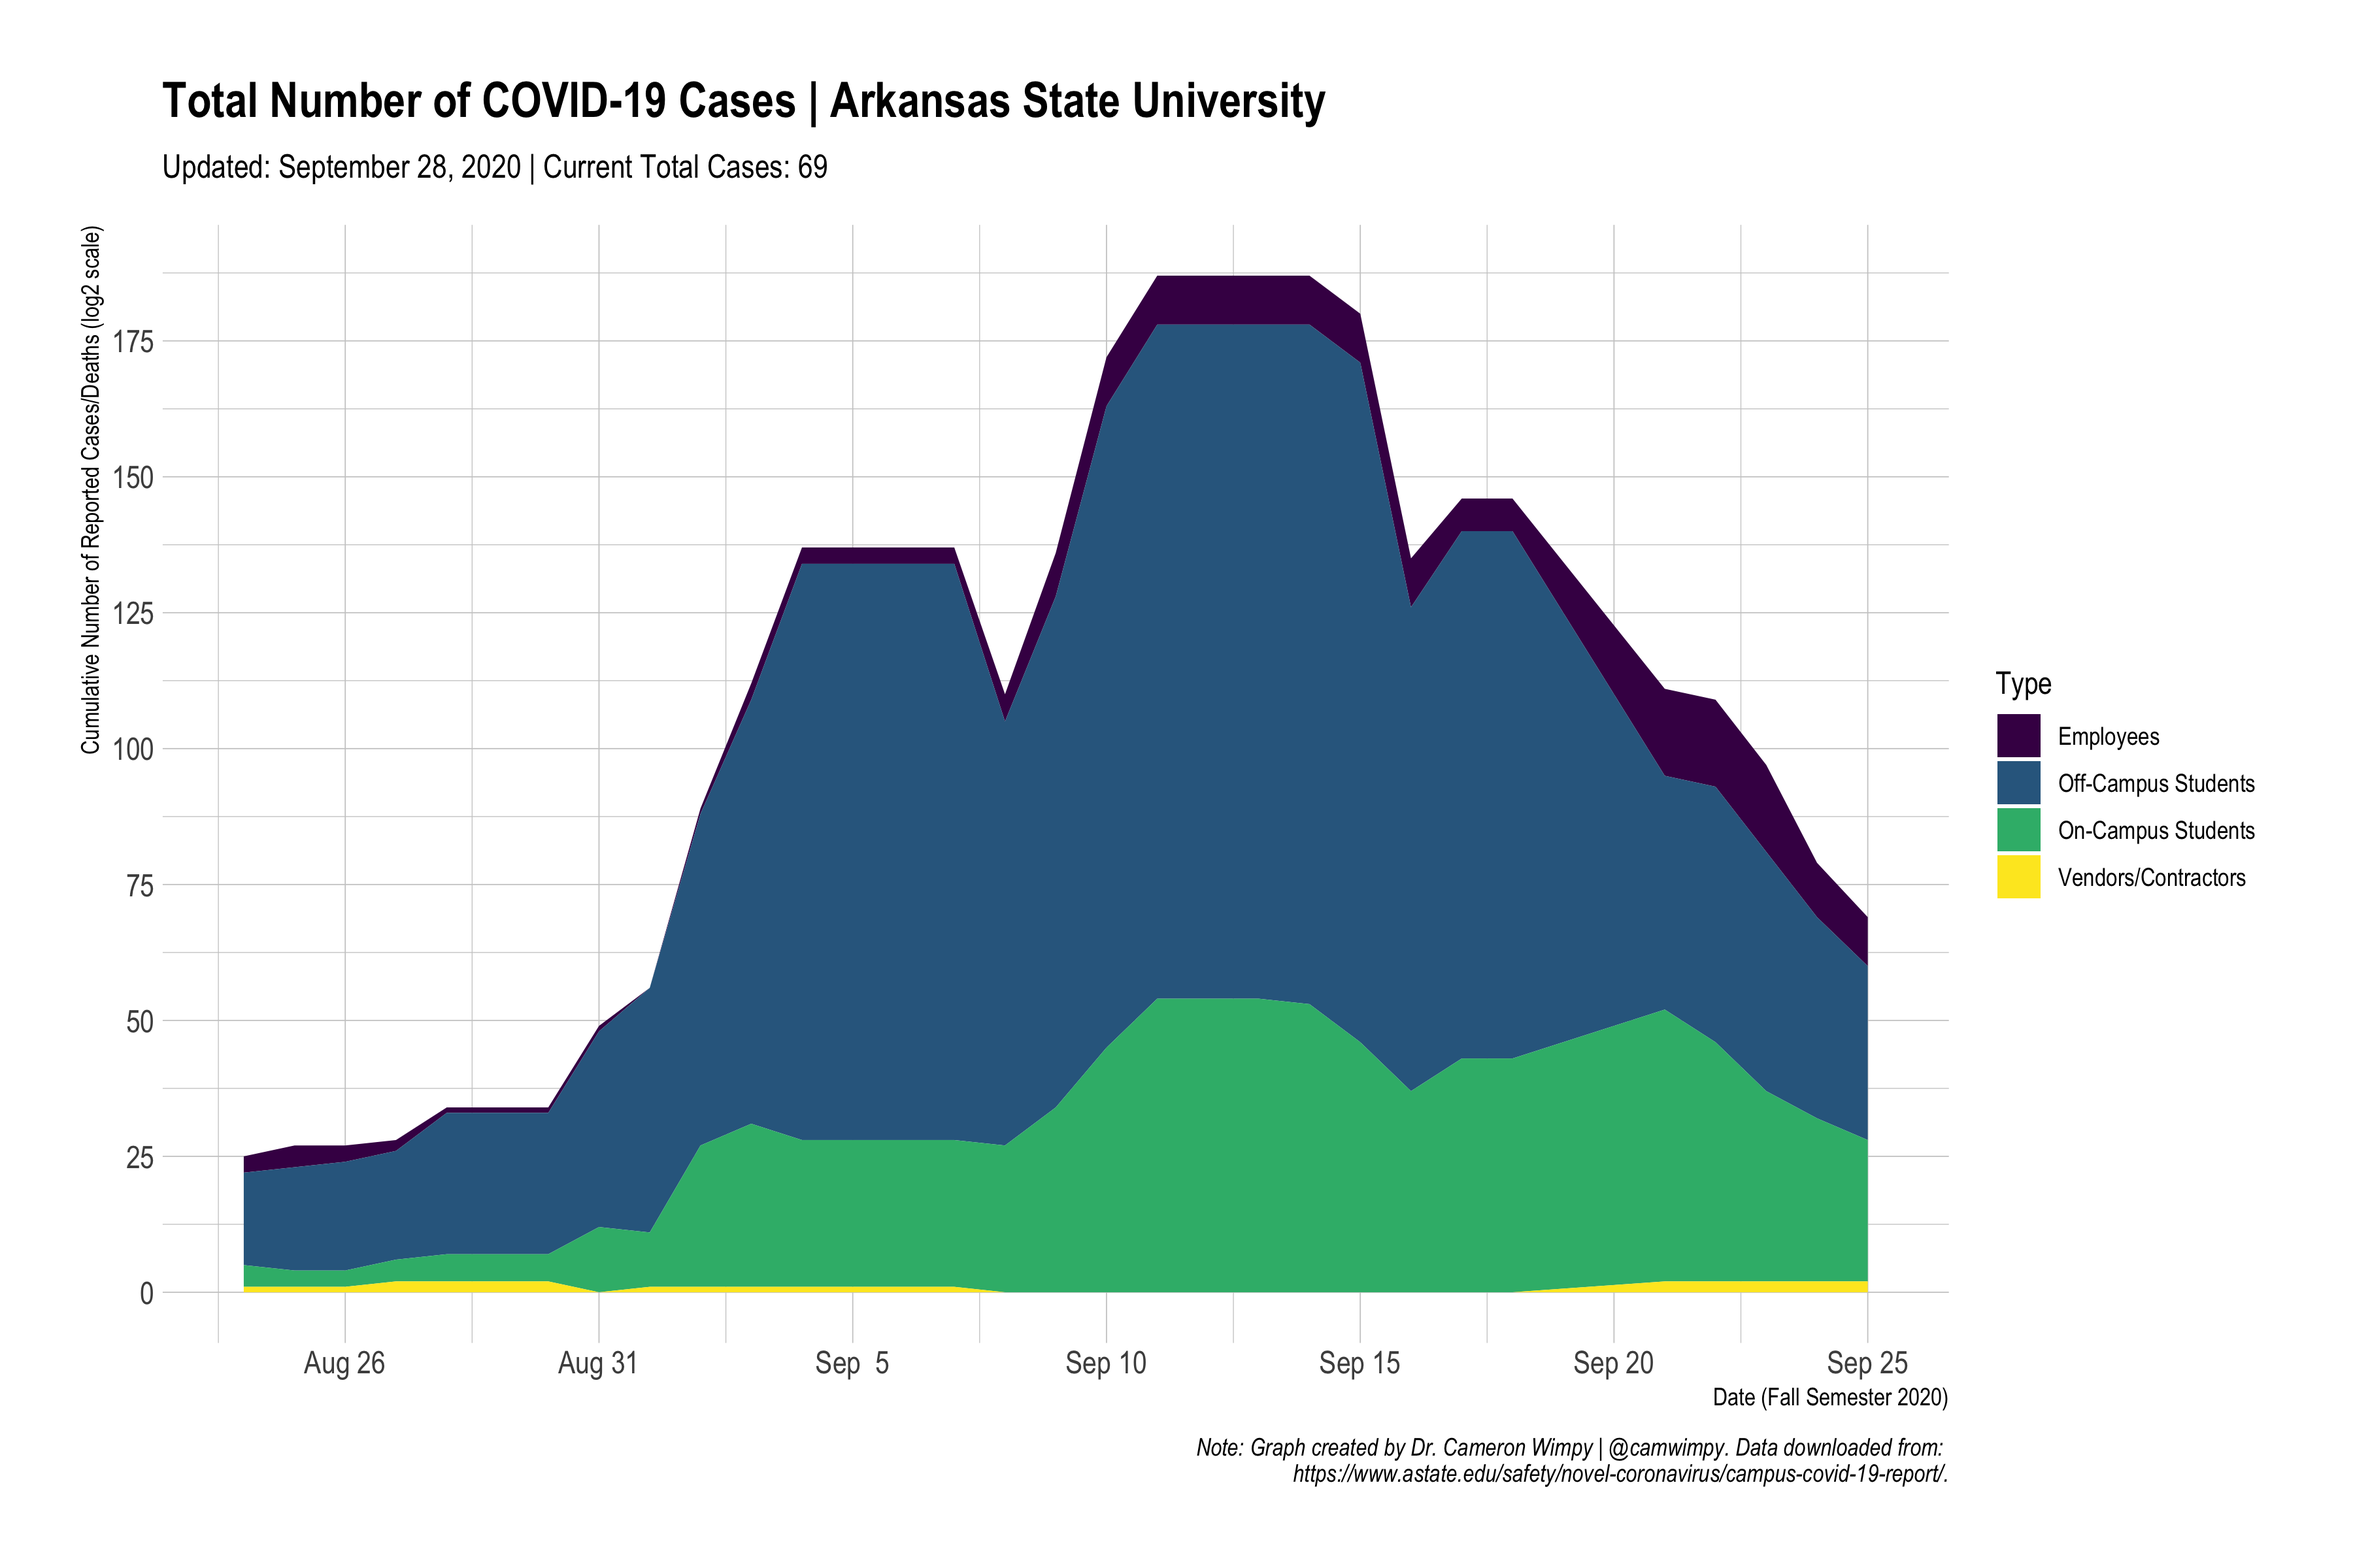
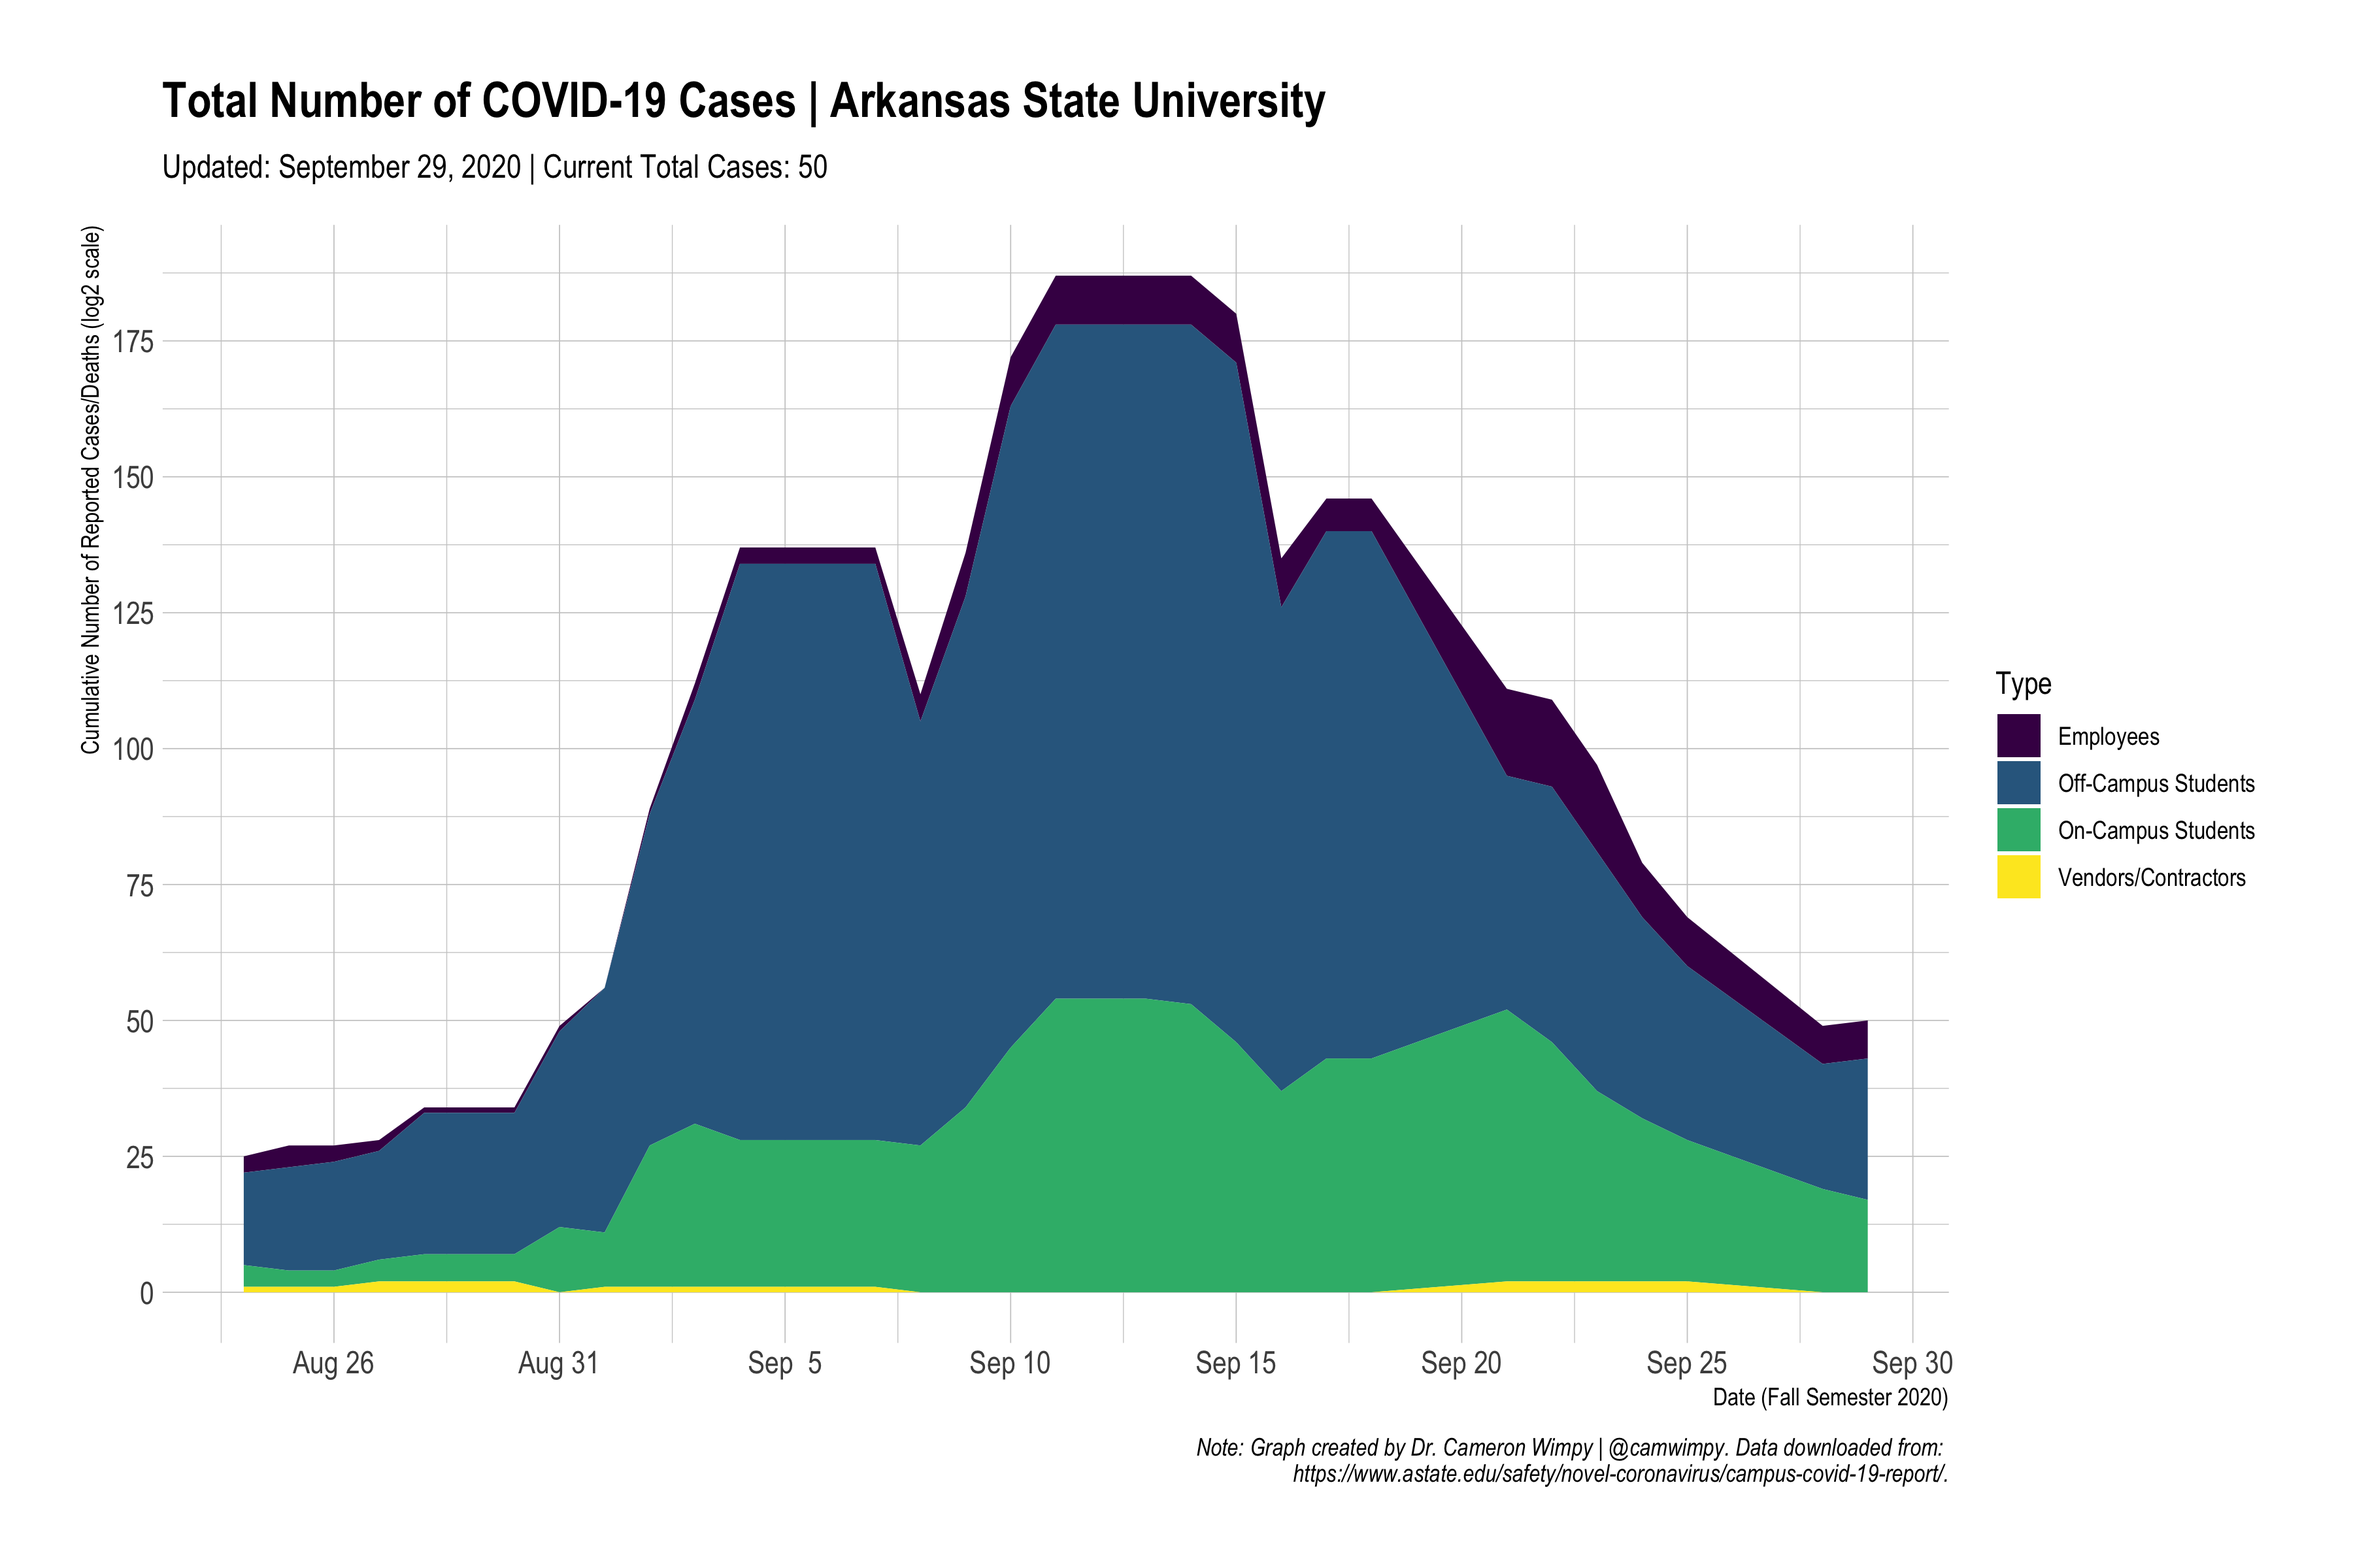
updated for 9-29

diff --git a/README.md b/README.md
@@ -10,4 +10,4 @@ This repo is dedicated to making graphs to track the Covid-19 outbreak at Arkans
 
 ![](images/bar.png)
 
-### Updated: September 25, 2020
+### Updated: September 29, 2020
